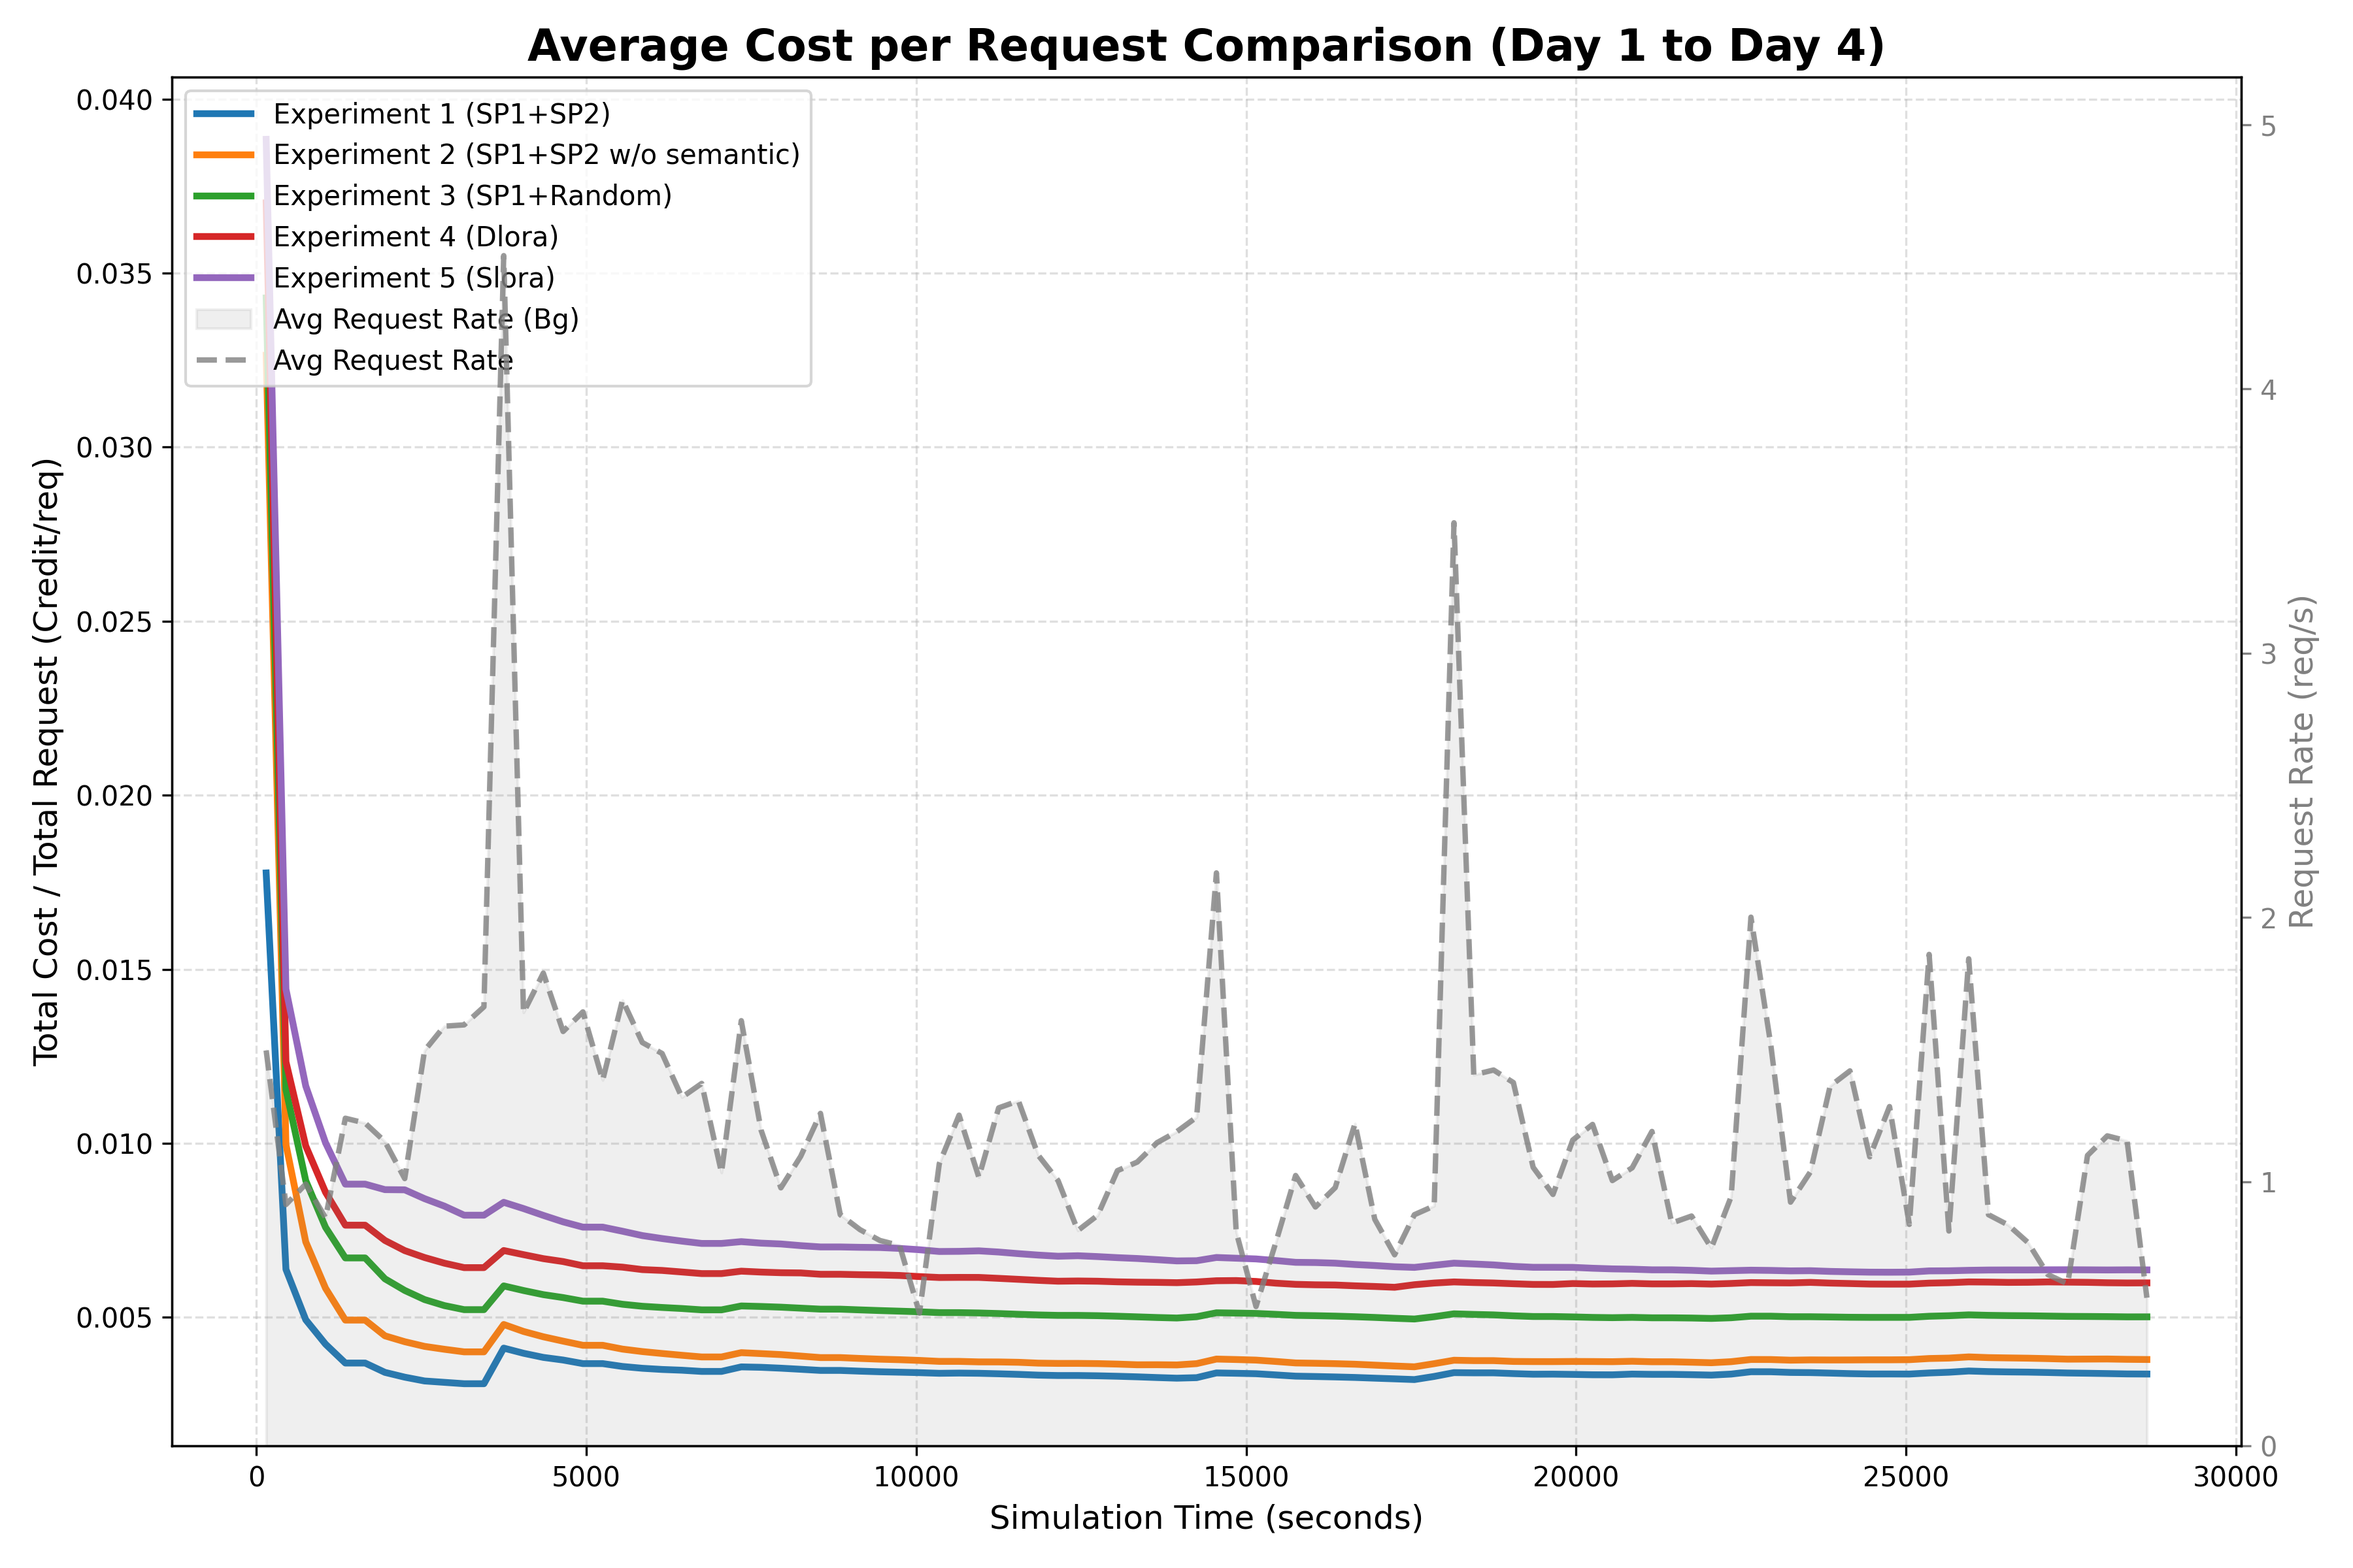
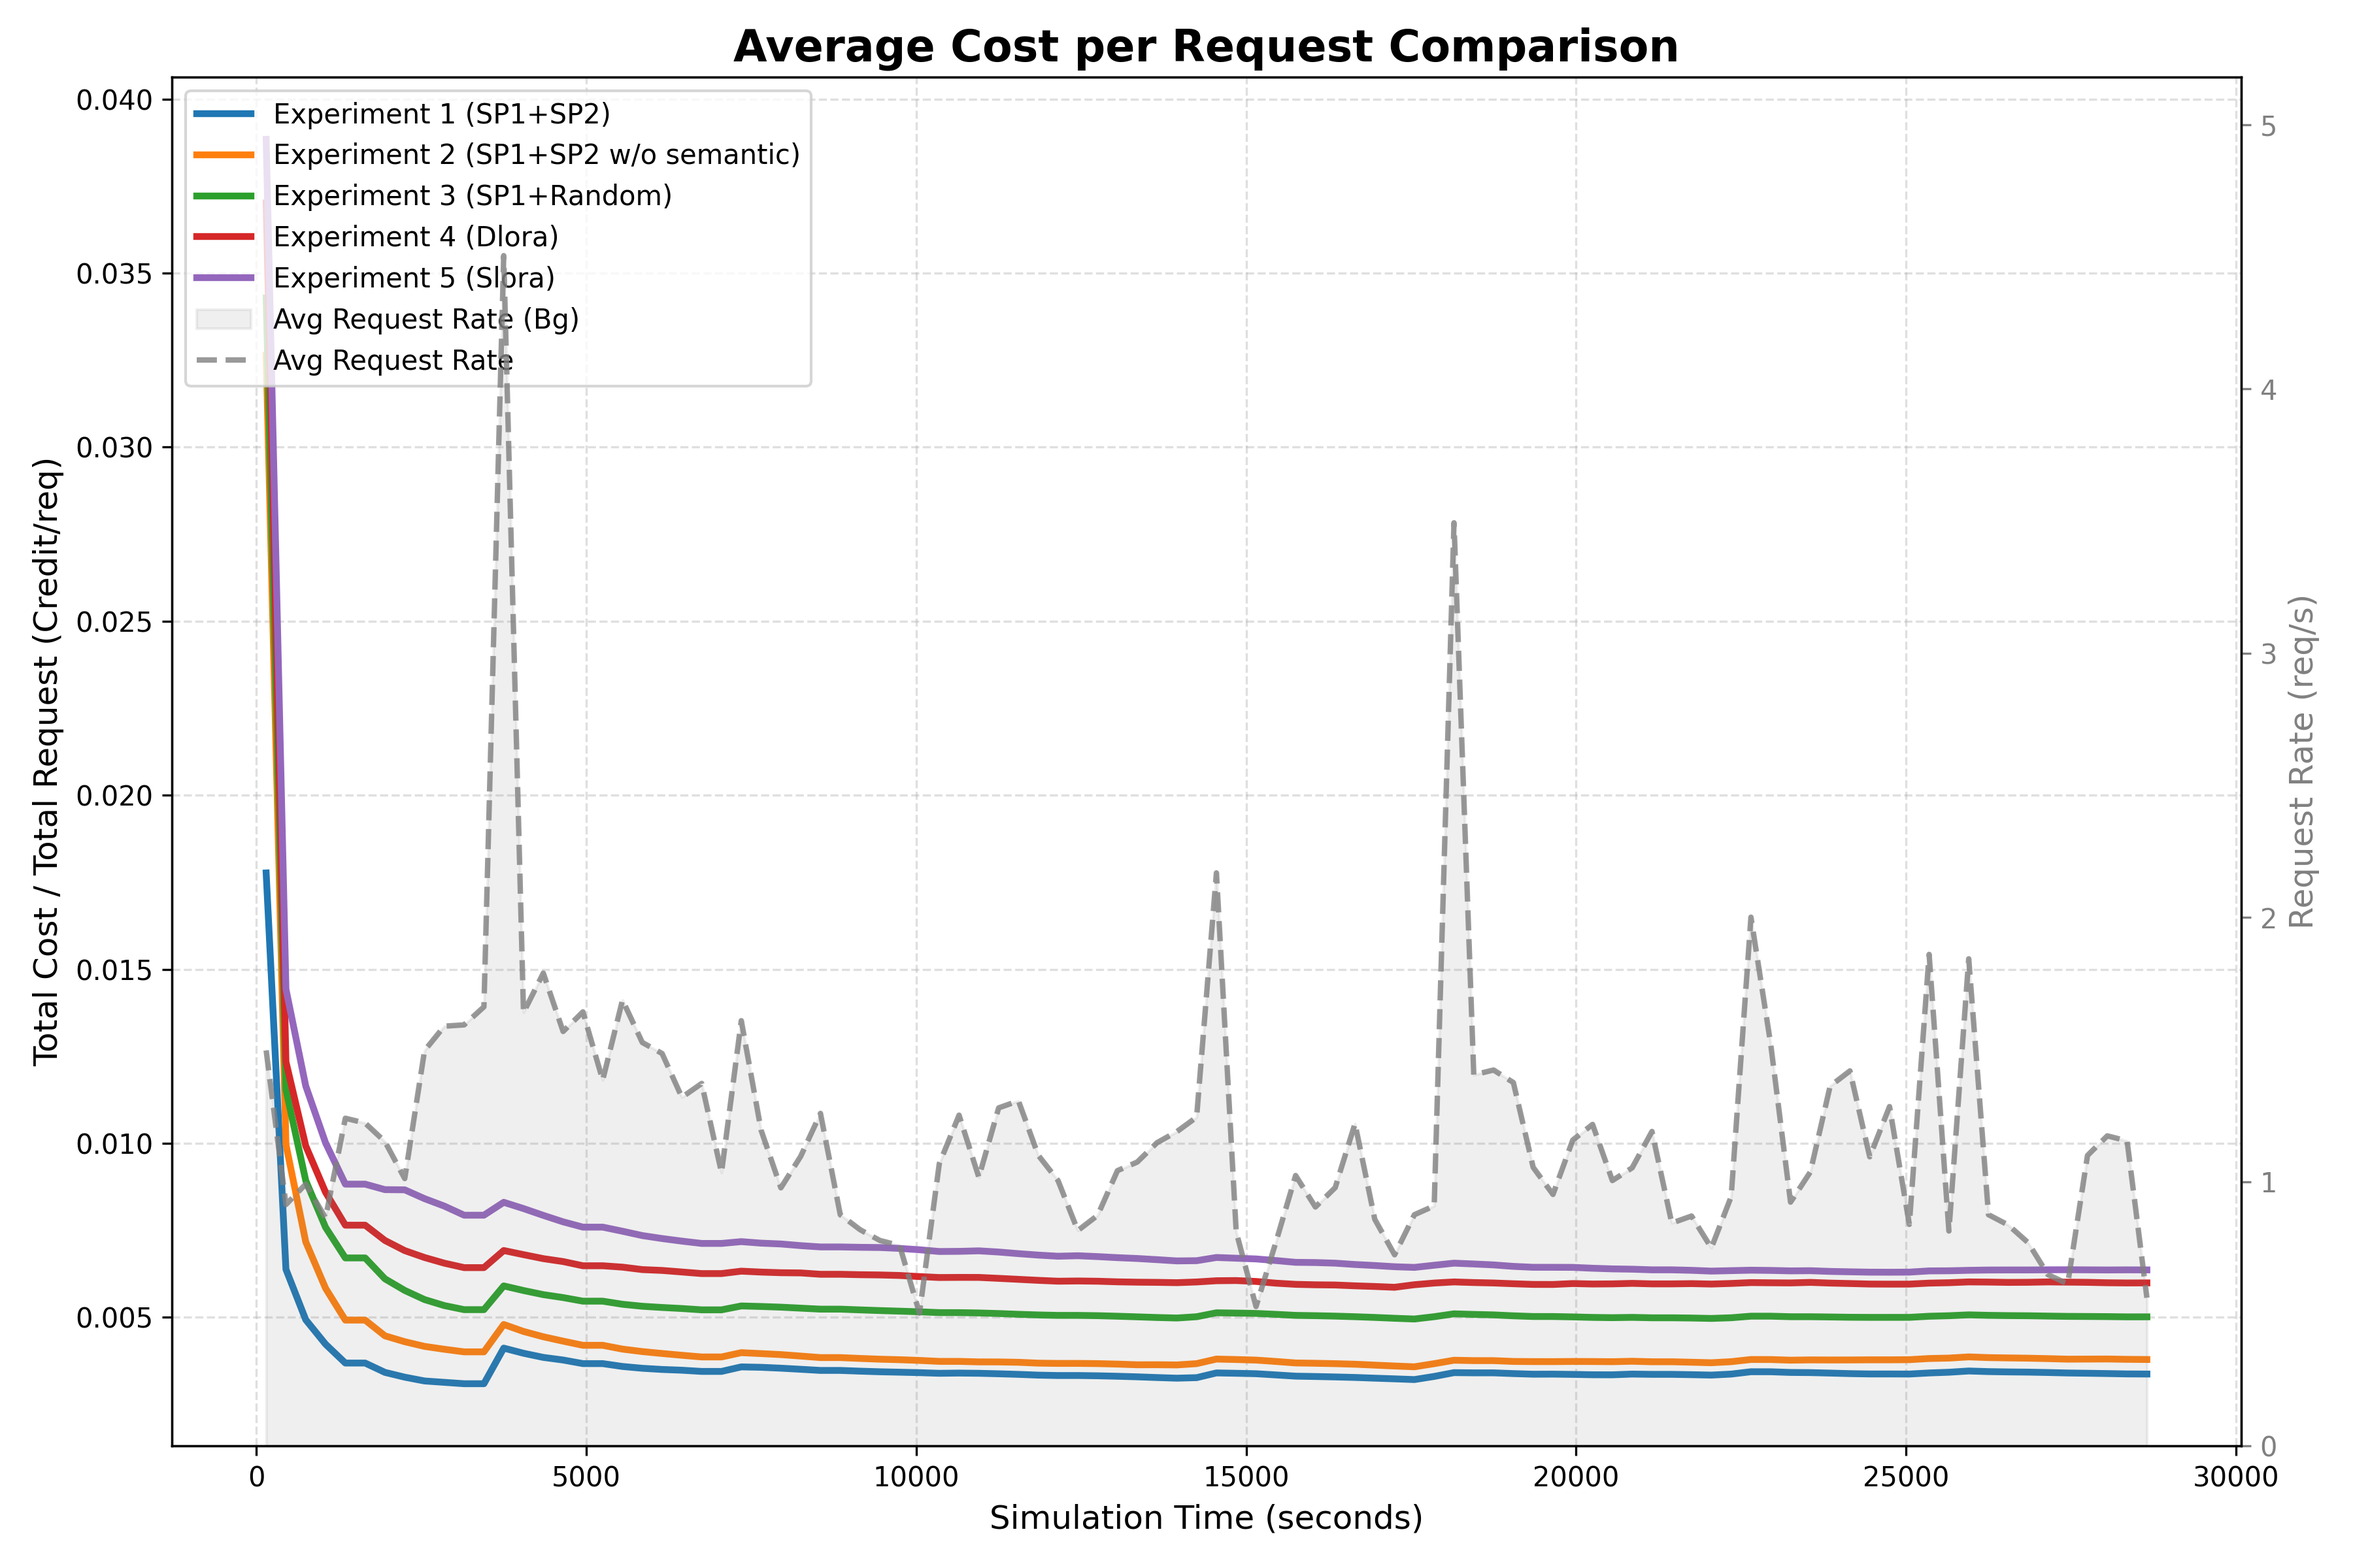
tmp

Changed region(s): [[0.2178, 0.0, 0.8089, 0.0625]]

diff --git a/cost2.py b/cost2.py
@@ -258,12 +258,18 @@ def plot_multiple_total_costs_with_simulation_bg(
 
 if __name__ == "__main__":
     log_files = [
-        "experiment_single_cluster_2nodes1_logs/efo_global_metrics.log",
-        "experiment_single_cluster_2nodes2_logs/efo_global_metrics.log",
-        "experiment_single_cluster_2nodes3_logs/efo_global_metrics.log",
-        "experiment_single_cluster_2nodes4_logs/efo_global_metrics.log",
-        "experiment_single_cluster_2nodes5_logs/efo_global_metrics.log",
+        # "experiment_single_cluster_2nodes1_logs/efo_global_metrics.log",
+        # "experiment_single_cluster_2nodes2_logs/efo_global_metrics.log",
+        # "experiment_single_cluster_2nodes3_logs/efo_global_metrics.log",
+        # "experiment_single_cluster_2nodes4_logs/efo_global_metrics.log",
+        # "experiment_single_cluster_2nodes5_logs/efo_global_metrics.log",
         # "experiment_single_cluster_2nodes6_logs/efo_global_metrics.log"
+        "experiment_deviceA_logs_1/efo_global_metrics.log",
+        "experiment_deviceA_logs_2/efo_global_metrics.log",
+        "experiment_deviceA_logs_3/efo_global_metrics.log",
+        "experiment_deviceA_logs_4/efo_global_metrics.log",
+        "experiment_deviceA_logs_5/efo_global_metrics.log",
+        "experiment_deviceA_logs_6/efo_global_metrics.log"
     ]
     folder_name = "./results/long/"
 
@@ -282,11 +288,11 @@ if __name__ == "__main__":
     plot_multiple_total_costs_with_simulation_bg(
         log_files=log_files,
         labels=labels,
-        output_path="cost_per_request_long",  # 更改輸出檔名以避免覆寫原檔
+        output_path="cost_per_request_two_cluster",  # 更改輸出檔名以避免覆寫原檔
         csv_path="./information/simulation_data.csv",
-        target_clusters=["cluster_1", "cluster_2", "cluster_3"],
+        target_clusters=["cluster_1"],
         speed_rate=1.0,
-        start_offset_days=2,
-        duration_hours=240,
+        start_offset_days=4,
+        duration_hours=8,
         bin_minutes=5,
     )

diff --git a/cost3.py b/cost3.py
@@ -91,7 +91,7 @@ def plot_averaged_costs(
     # ==========================================
     # 3. 圖表樣式設定
     # ==========================================
-    ax1.set_title("Average Cost per Request Comparison (Day 1 to Day 4)", fontsize=16, fontweight='bold')
+    ax1.set_title("Average Cost per Request Comparison", fontsize=16, fontweight='bold')
     ax1.set_xlabel("Simulation Time (seconds)", fontsize=12)
     ax1.set_ylabel("Total Cost / Total Request (Credit/req)", fontsize=12)
 
